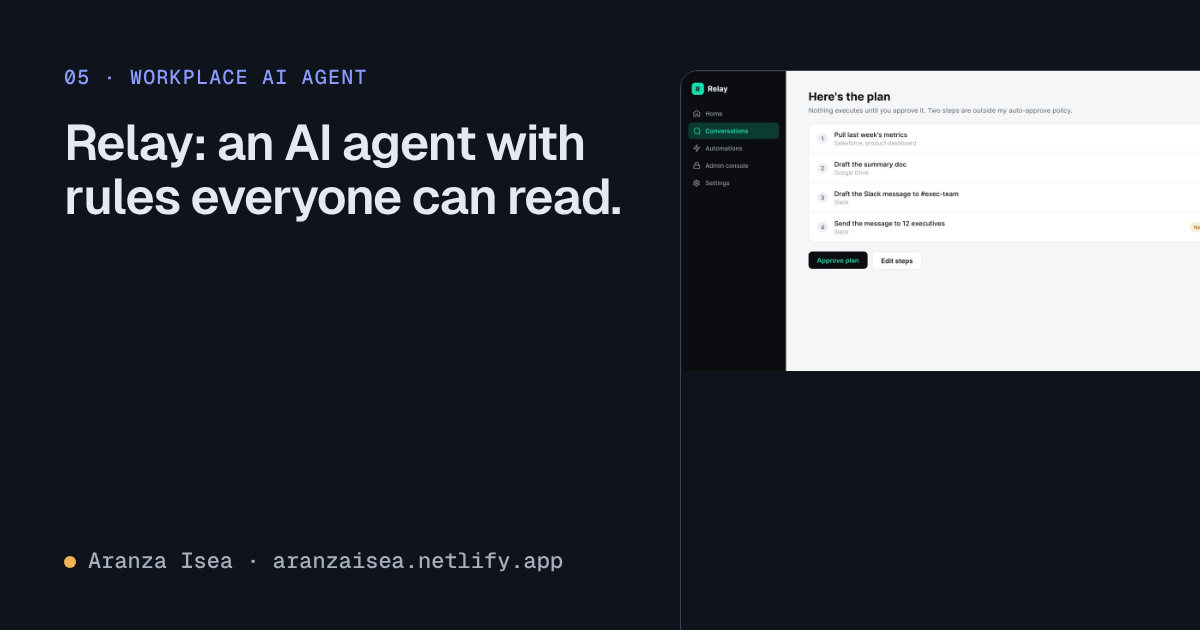
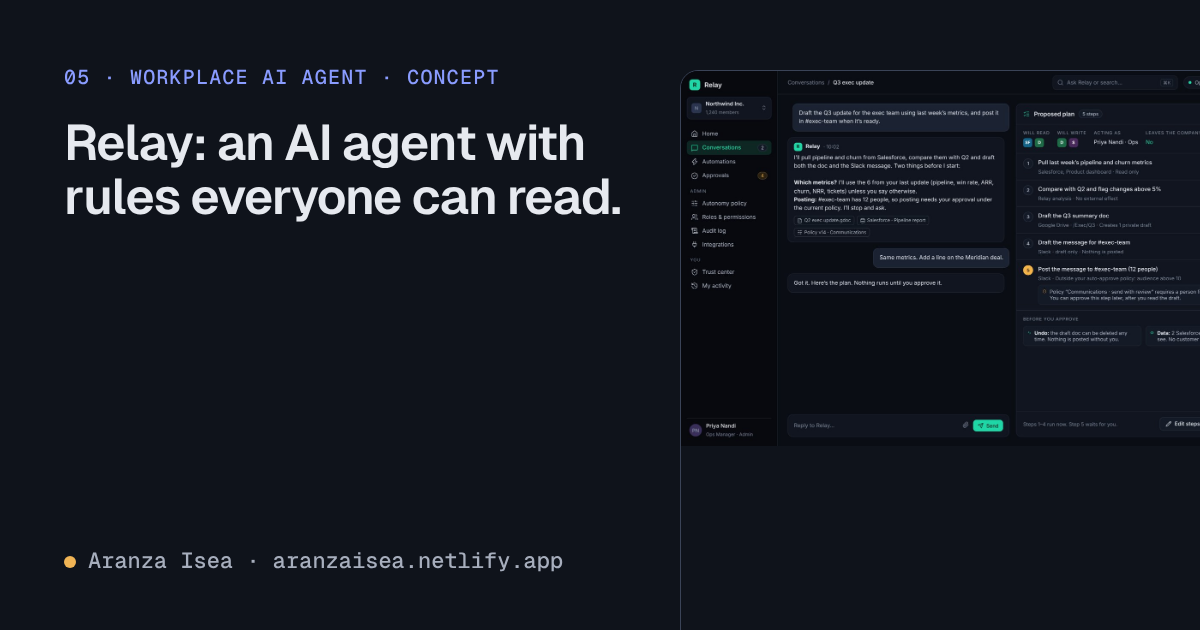
Relay: redesigned case with 8 new screens, honest concept framing
- Replace 24 old screens with 8 dense hi-fi screens (2880x1800)
- Rewrite EN/ES case around one request and one blocked automation
- Status: independent concept; no invented metrics
- Unhide Relay (05), Numi becomes 06, home count to six products
- Link Relay from pattern 03, remove temporary redirect, new OG image

Claude-Session: https://claude.ai/code/session_013NGTsh6kyjBtEkrGcpAATb

diff --git a/src/data/cases.ts b/src/data/cases.ts
@@ -88,18 +88,18 @@ const ALL_CASES: CaseMeta[] = [
     },
   },
   {
-    slug: 'relay', no: '—', name: 'Relay', ai: true, hidden: true,
+    slug: 'relay', no: '05', name: 'Relay', ai: true,
     tag: { en: 'Workplace AI agent · Enterprise SaaS', es: 'Agente de IA para equipos · SaaS empresarial' },
-    status: 'launched', statusLabel: { en: 'Launched', es: 'Lanzado' },
+    status: 'concept', statusLabel: { en: 'Independent concept', es: 'Concepto independiente' },
     sentence: {
       en: 'An AI agent that works across a company’s tools, with an autonomy policy the admin sets and everyone can read.',
       es: 'Un agente de IA que trabaja con las herramientas de la empresa, con una política de autonomía que define el admin y todos pueden leer.',
     },
     chips: { en: ['Autonomy policy', 'Plan → approve → run'], es: ['Política de autonomía', 'Plan → aprobar → ejecutar'] },
-    role: { en: 'Product Designer', es: 'Product Designer' }, year: '',
+    role: { en: 'Product Designer', es: 'Product Designer' }, year: '2026',
     where: { en: '', es: '' },
-    cover: 'cases/relay/b3-plan-proposal.png', pageCover: 'cases/relay/c2-review-workflow.png',
-    coverAlt: { en: 'Relay plan proposal: four steps, one waiting for the user’s approval', es: 'Propuesta de plan en Relay: cuatro pasos, uno esperando la aprobación del usuario' },
+    cover: 'cases/relay/plan.png', pageCover: 'cases/relay/blocked-action.png',
+    coverAlt: { en: 'Relay plan proposal: five steps, the last one waiting for the user’s approval', es: 'Propuesta de plan en Relay: cinco pasos, el último esperando la aprobación del usuario' },
     seoTitle: { en: 'Relay — Workplace AI agent case study', es: 'Relay — Caso de estudio: agente de IA para equipos' },
     seoDesc: {
       en: 'An enterprise AI agent with a readable autonomy policy: plans before acting, approvals per category, a full audit log and a trust center for every employee.',
@@ -107,7 +107,7 @@ const ALL_CASES: CaseMeta[] = [
     },
   },
   {
-    slug: 'numi', no: '05', name: 'Numi', ai: true,
+    slug: 'numi', no: '06', name: 'Numi', ai: true,
     tag: { en: 'AI meal planner · Consumer · iOS', es: 'Planificador de comidas con IA · Consumo · iOS' },
     status: 'concept', statusLabel: { en: 'Independent concept', es: 'Concepto independiente' },
     sentence: {
